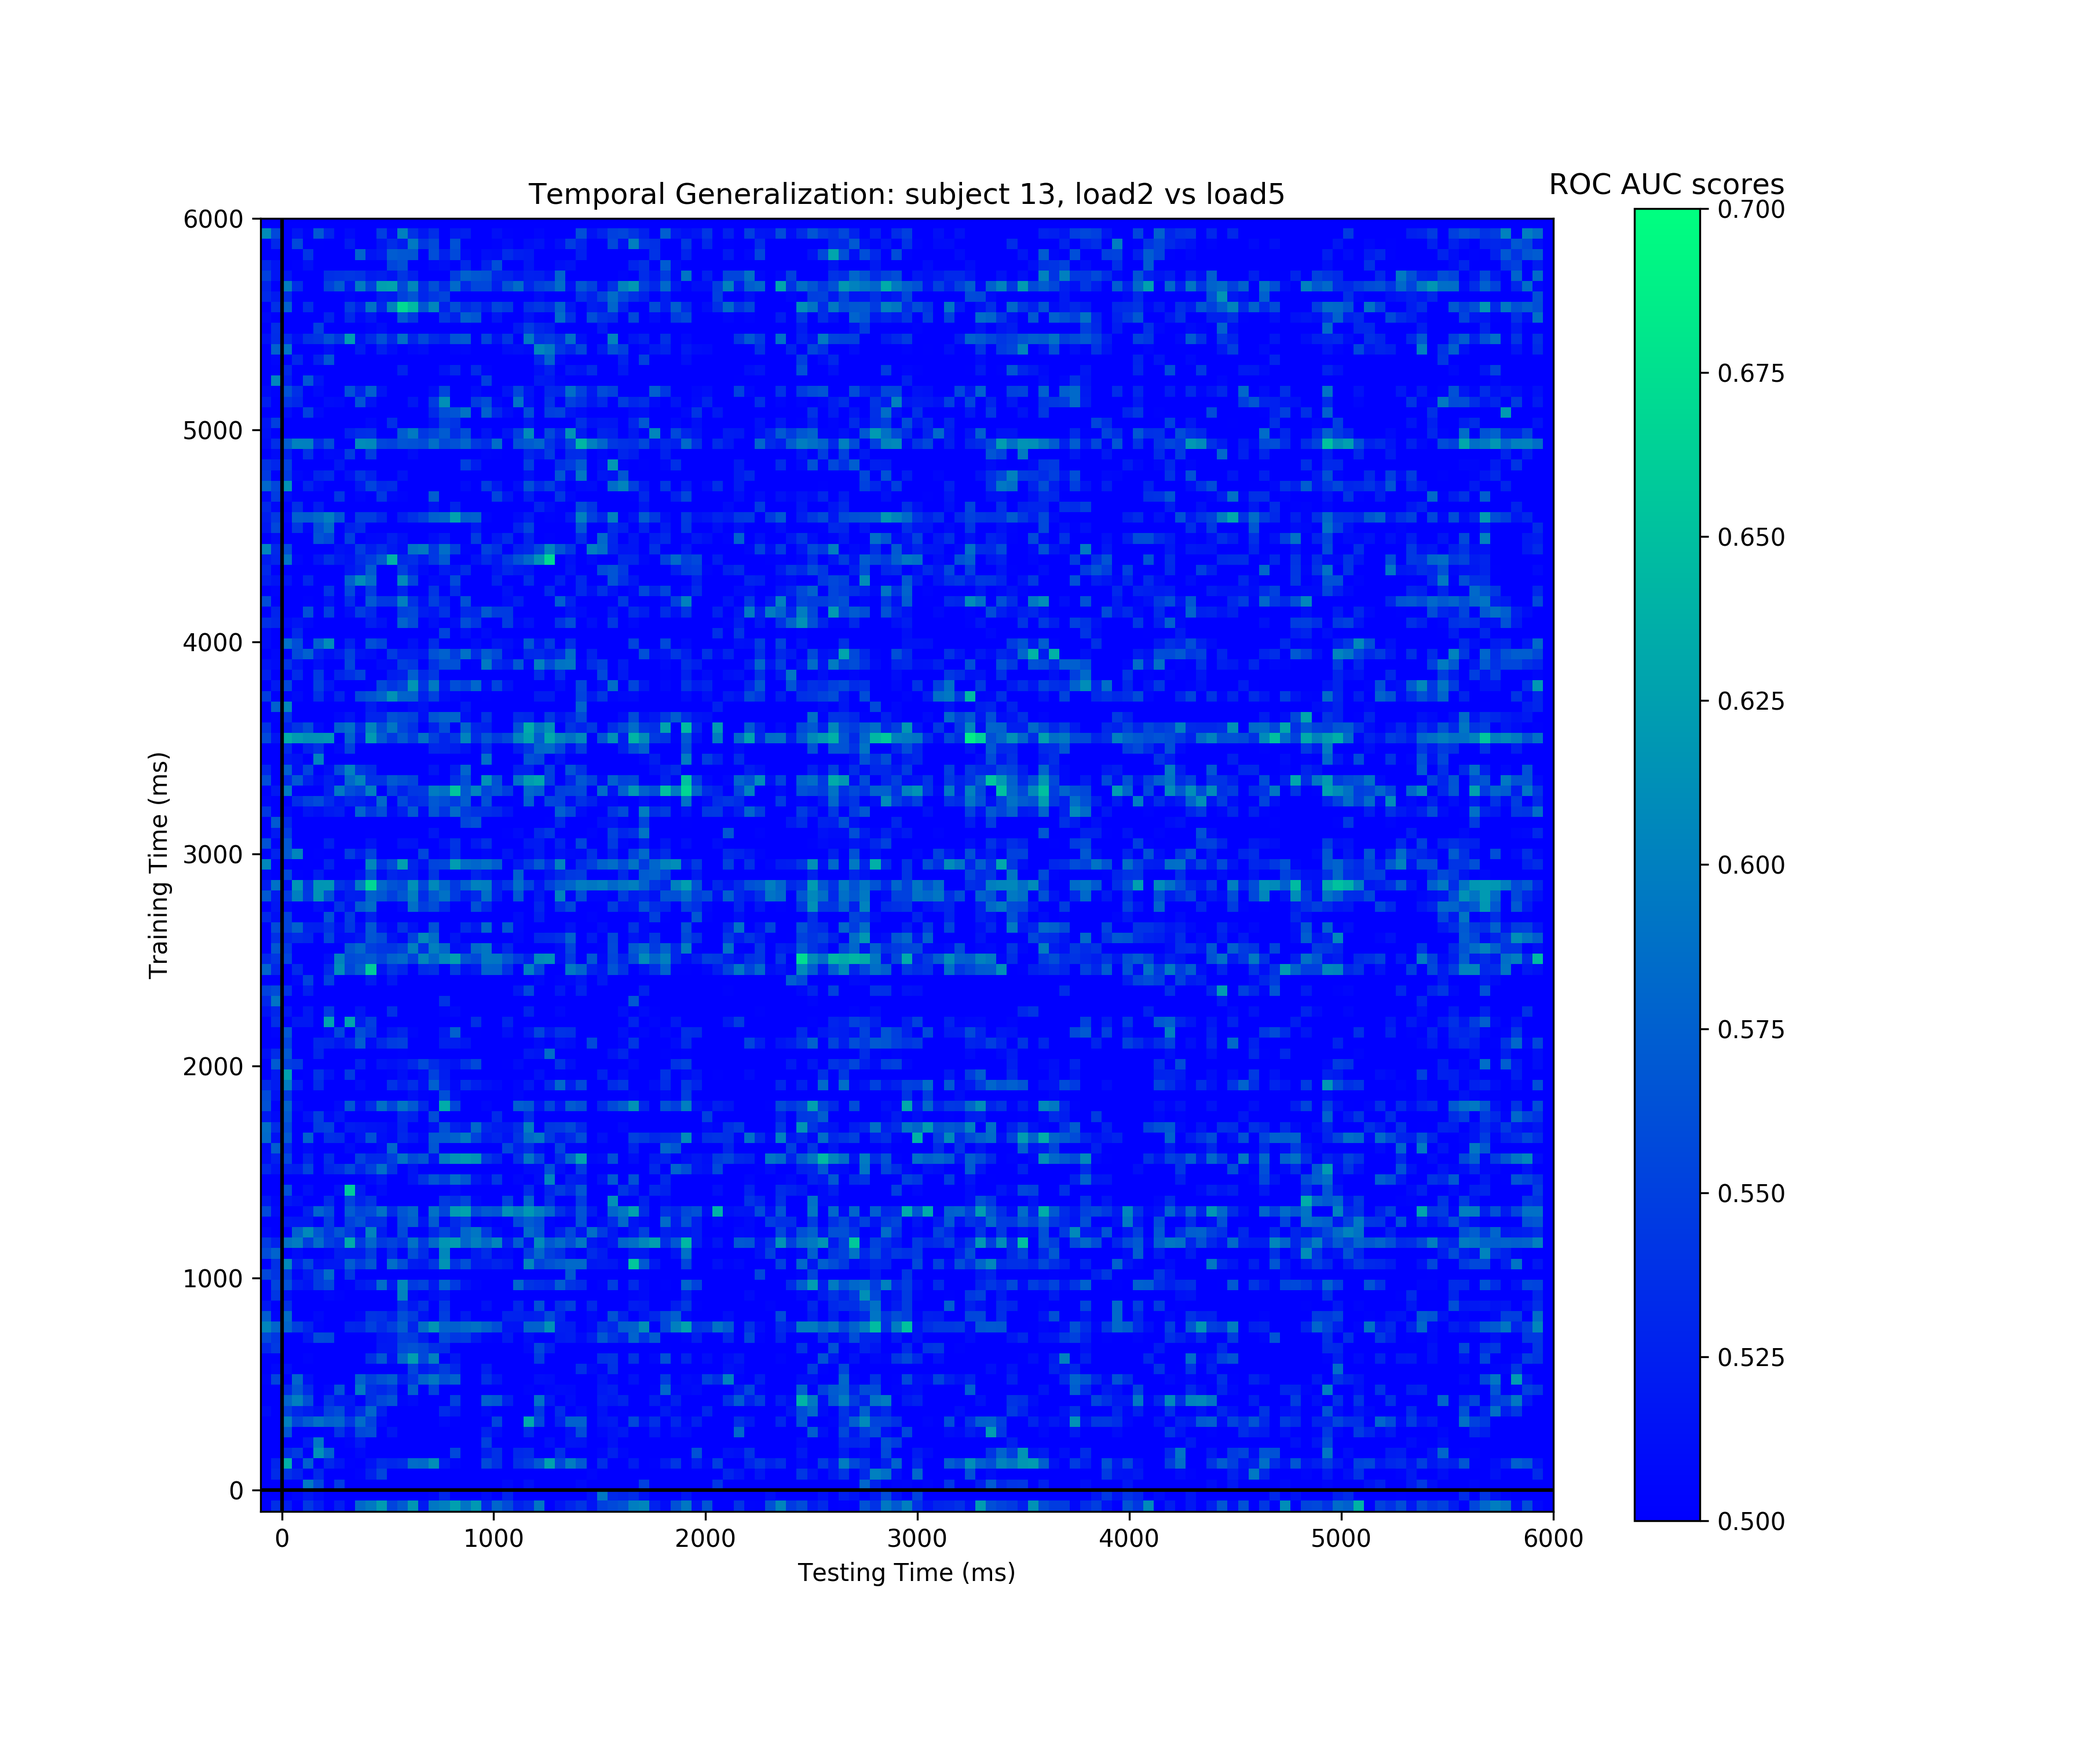
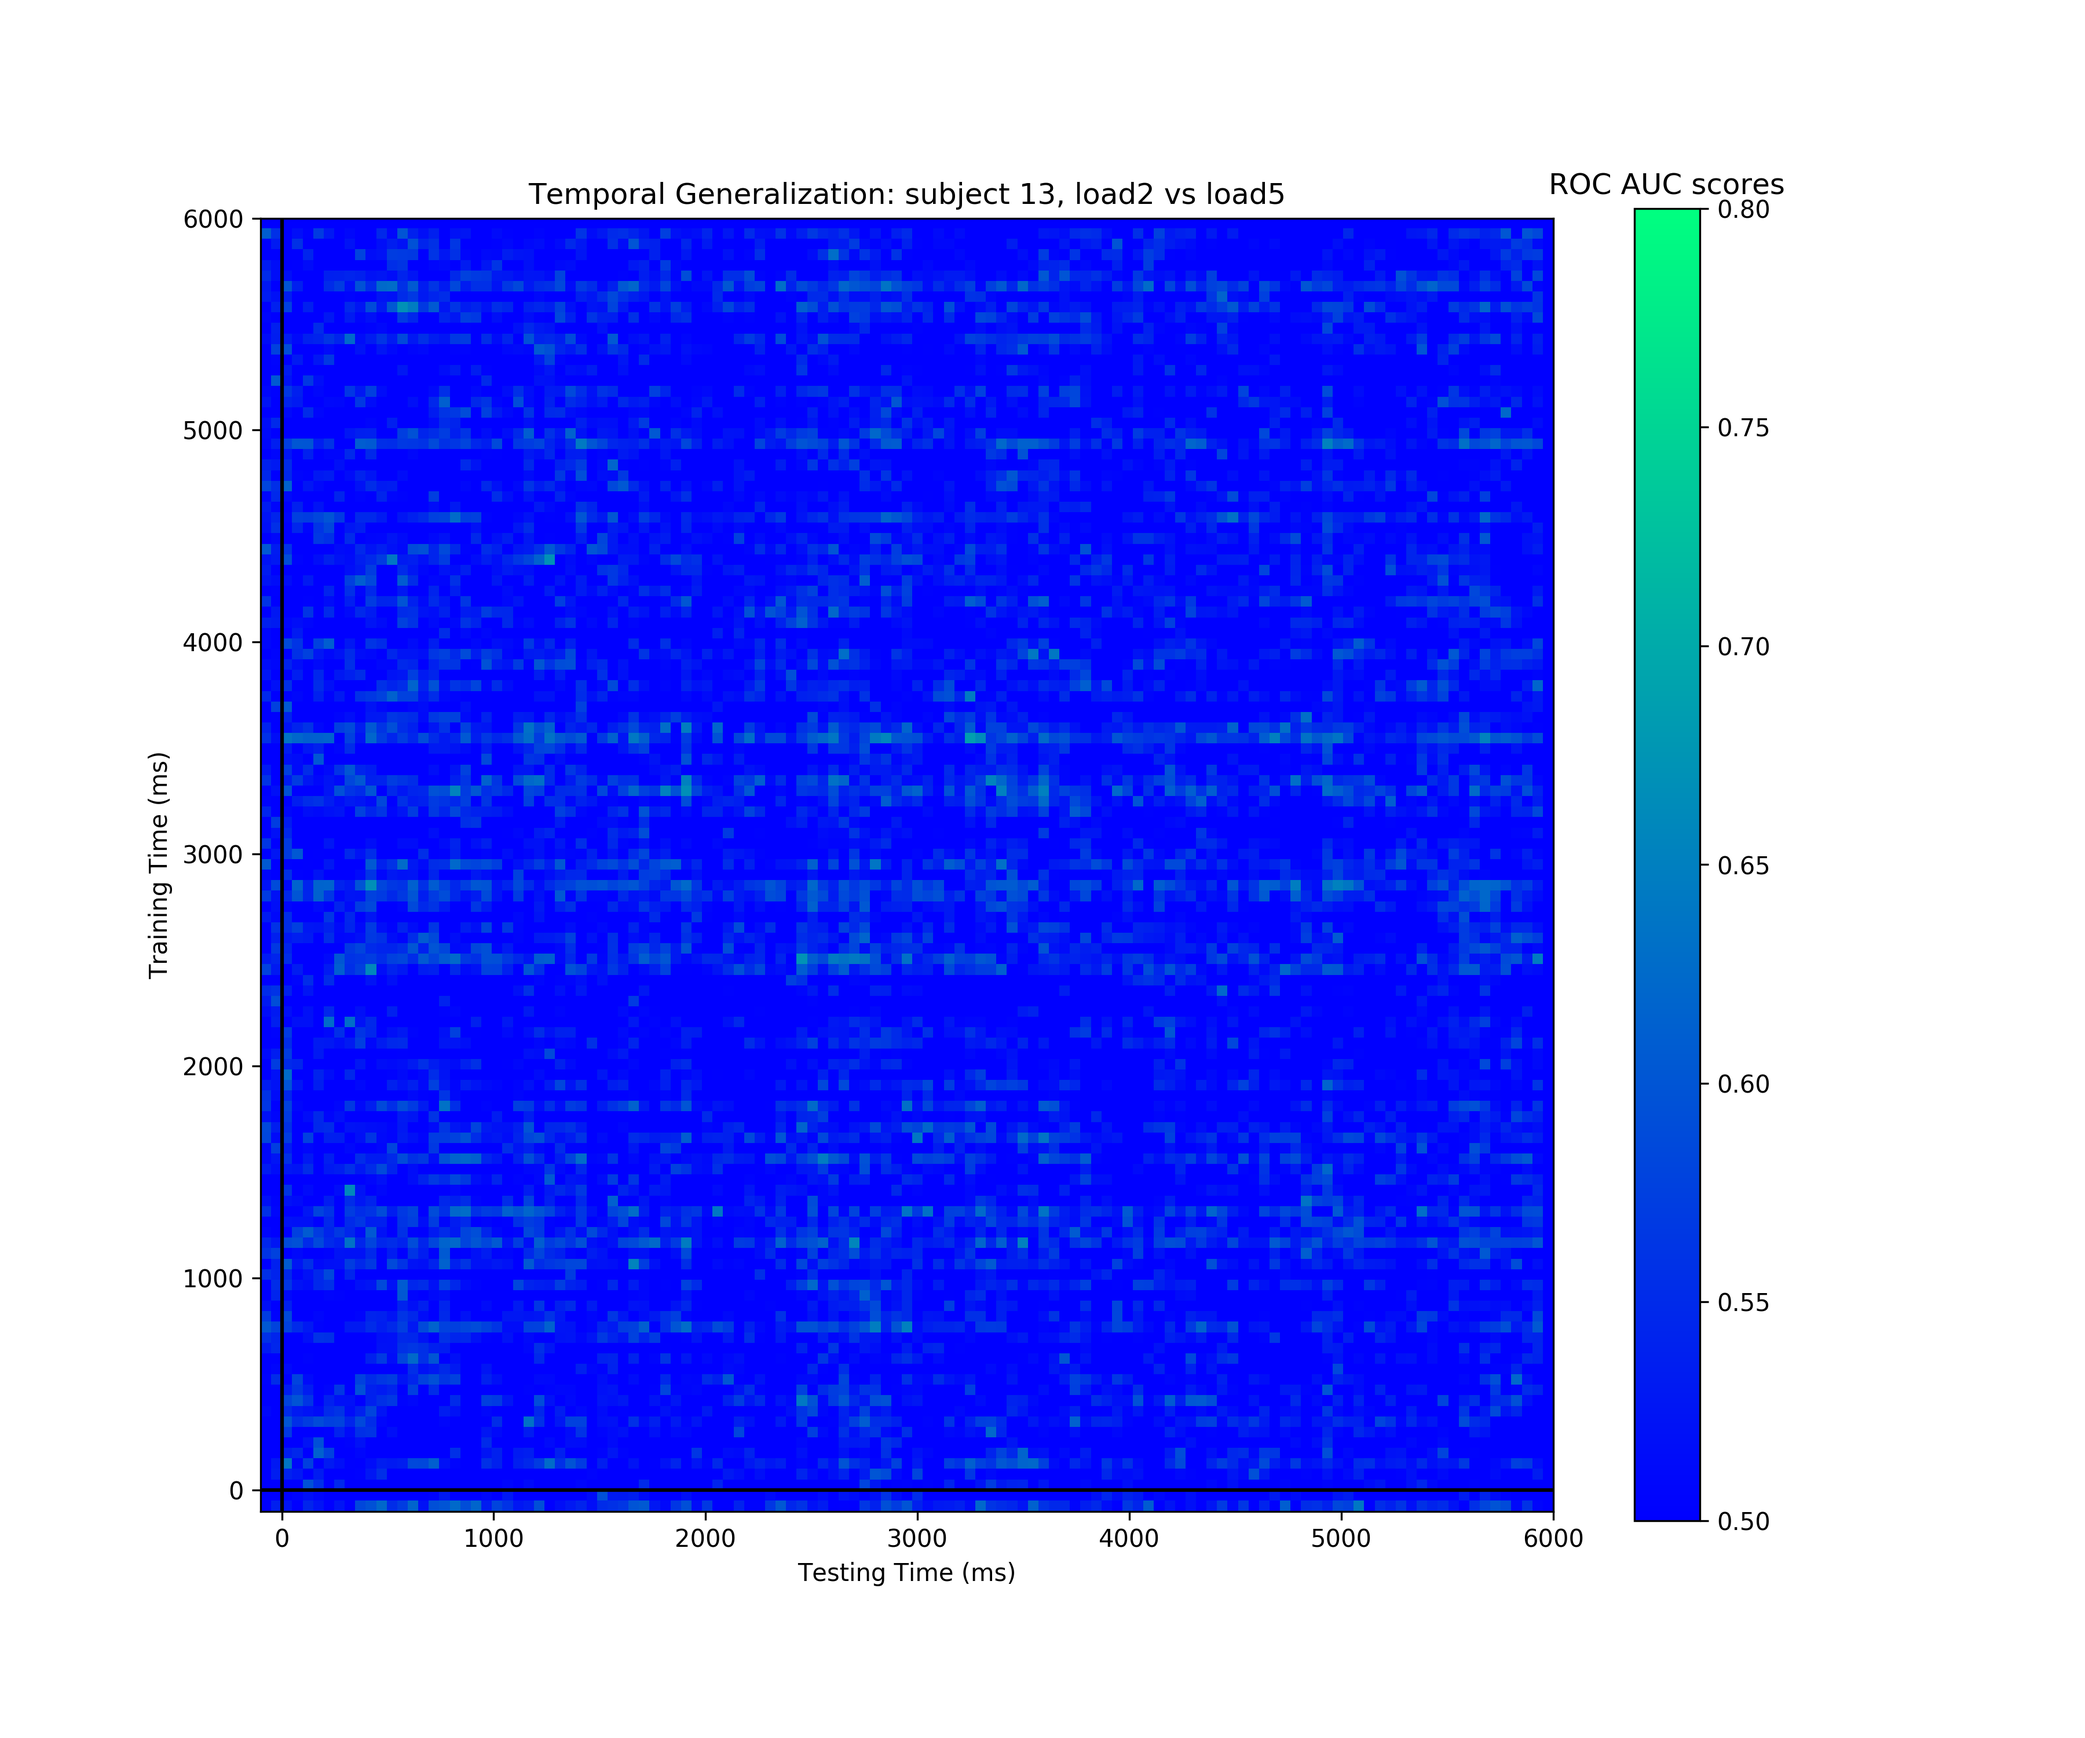
results

diff --git a/scripts/working memory delay period (vectorization).py b/scripts/working memory delay period (vectorization).py
@@ -116,7 +116,7 @@ for sub in subs:
     plt.close('all')
     fig, ax = plt.subplots(figsize=(12,10))
     im = ax.imshow(scores.mean(-1),interpolation=None,origin='lower',
-                  cmap='winter',vmin=0.5,vmax=.7,extent=[-100,6000,-100,6000])
+                  cmap='winter',vmin=0.5,vmax=.8,extent=[-100,6000,-100,6000])
     ax.set(xlabel='Testing Time (ms)',ylabel='Training Time (ms)',
           title='Temporal Generalization: subject %d, load2 vs load5'%sub)
     
